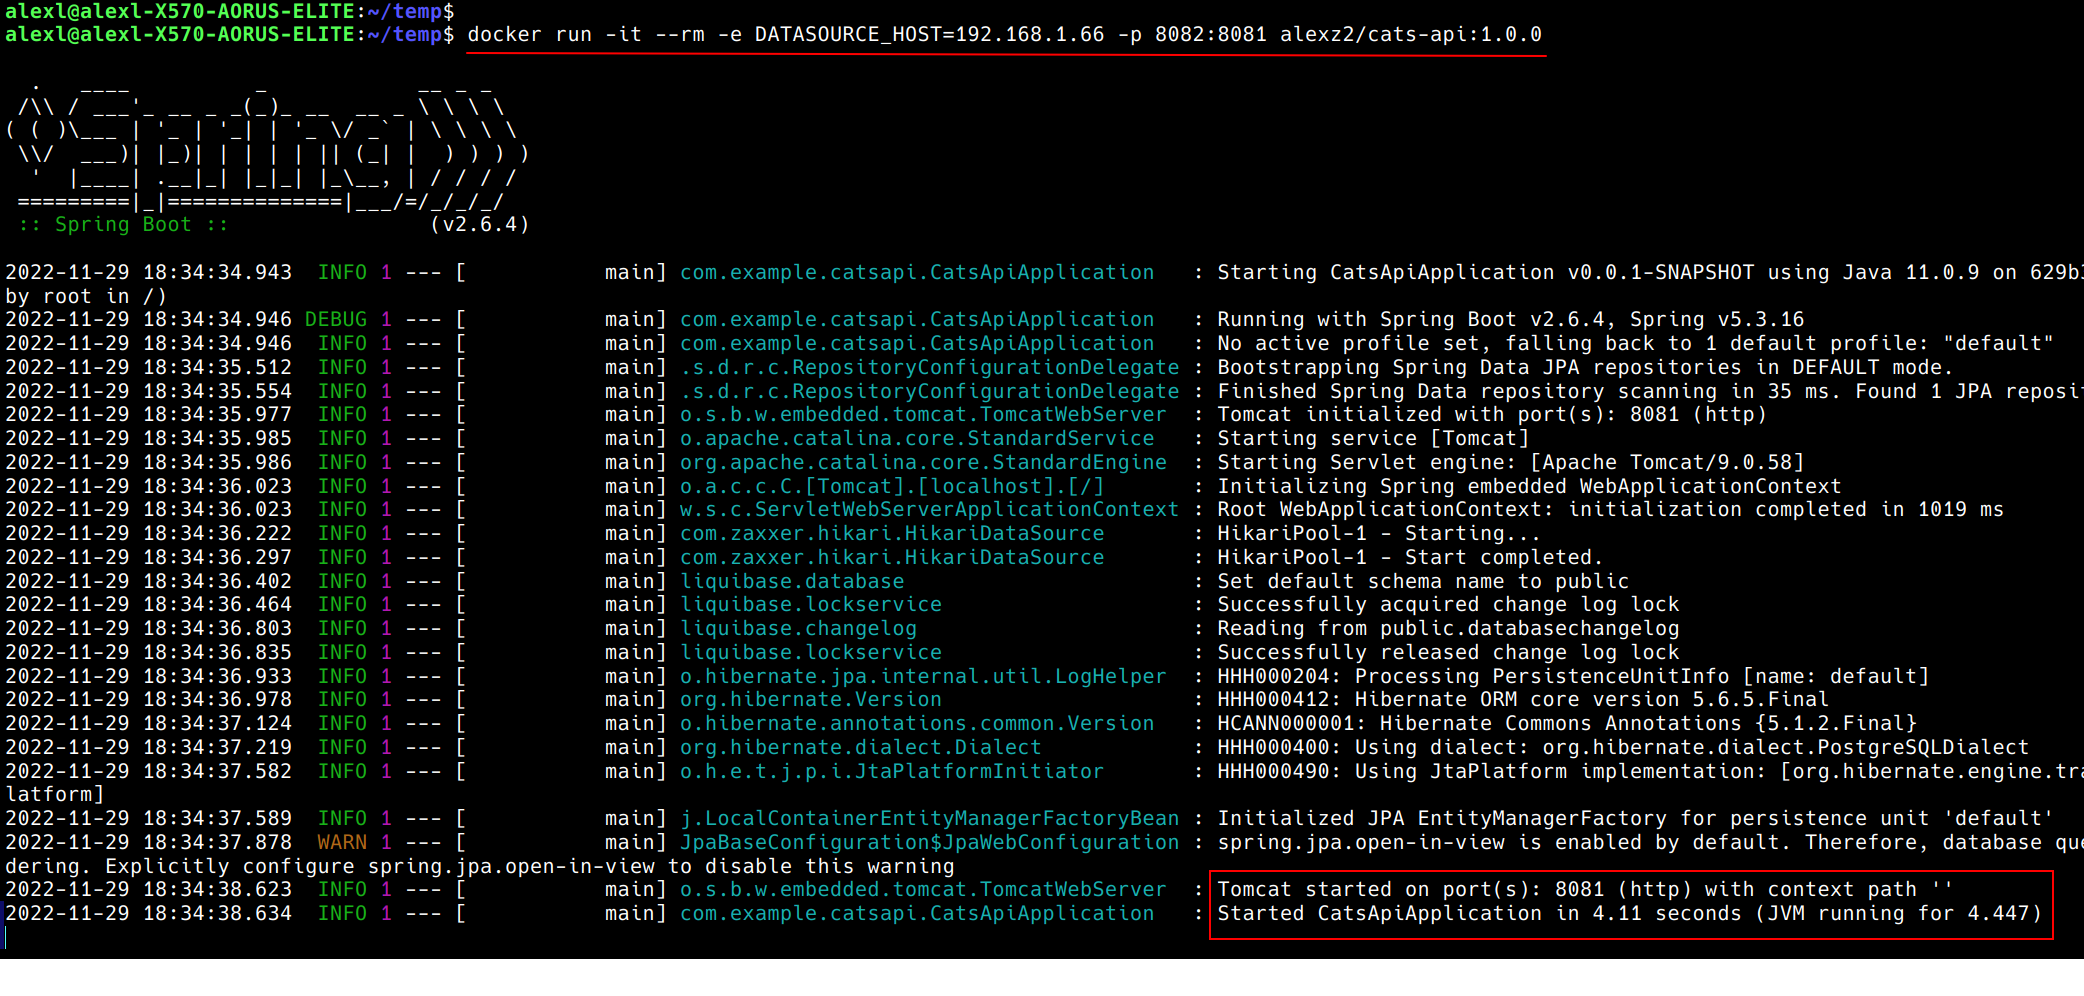
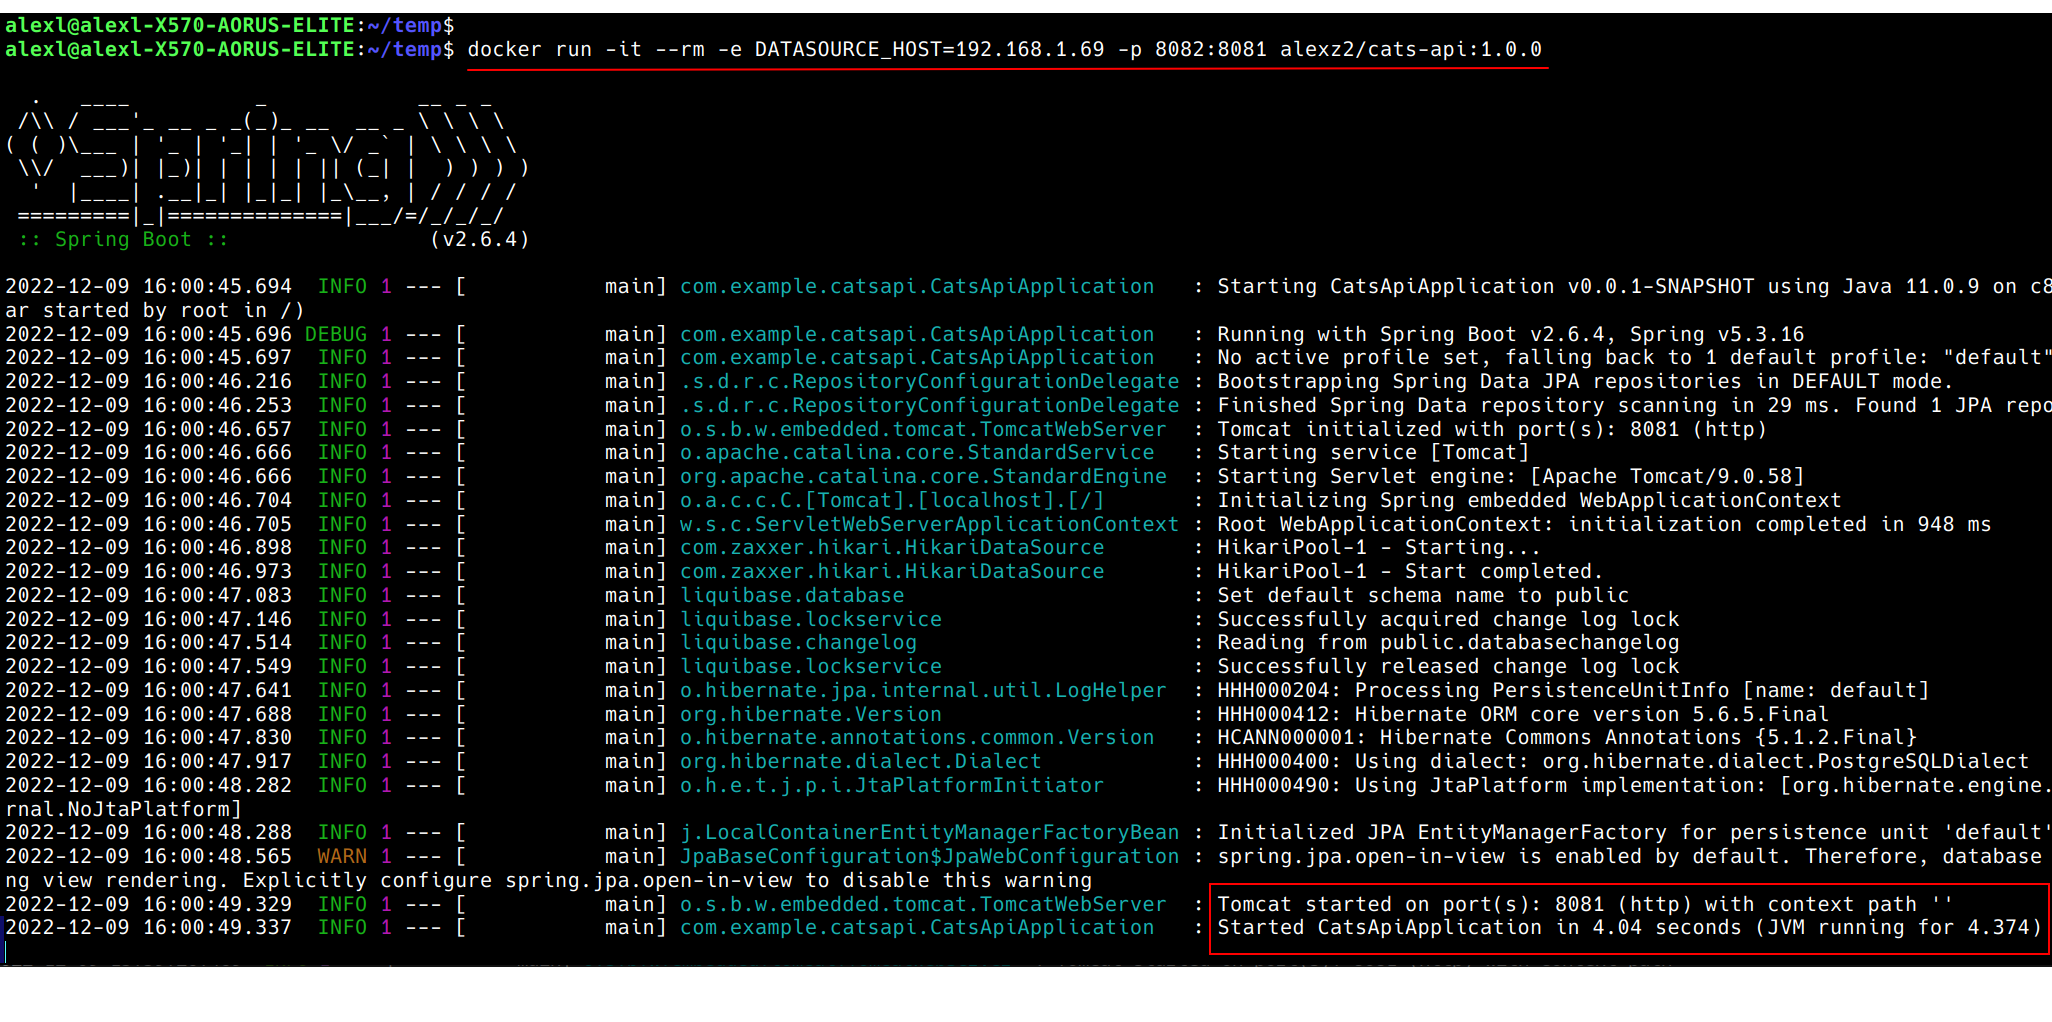
update 33

Changed region(s): [[0.2807, 0.249, 1.0, 0.8092], [0.0, 0.0934, 1.0, 0.9649], [0.0, 0.0, 1.0, 0.0934]]

diff --git a/README.md b/README.md
@@ -81,22 +81,23 @@
 - билдится образ;
 - полученный образ пушится на Docker Hub.
 
-6. В итоге видим свой образ:  
+В итоге видим свой образ:  
    ![](https://github.com/aleksey-nsk/cats-api/blob/master/screenshots/07_1_see_image.png)
 
 Если запустим ещё раз команду `./build_and_push.sh`, то сбилдится новый образ  
 и запушится на Docker Hub:  
 ![](https://github.com/aleksey-nsk/cats-api/blob/master/screenshots/07_2_build_again.png)
 
-7. Также видим, что образ загружен на Docker Hub:  
+Также видим, что образ загружен на Docker Hub:  
    ![](https://github.com/aleksey-nsk/cats-api/blob/master/screenshots/08_docker_hub.png)
 
-8. Теперь попробуем запустить из нашего образа контейнер с приложением. Пишем команду в консоли:  
+6. Теперь попробуем запустить из нашего образа контейнер с приложением. Пишем команду в консоли:  
    `docker run -it --rm alexz2/cats-api:1.0.0`
 
-- `docker run` - запустить контейнер из образа
-- `--rm` - если запустить контейнер с таким ключом, то он будет автоматически удалён сразу после остановки
-- `alexz2/cats-api:1.0.0` - образ
+- `docker run` - запустить контейнер из образа;
+- `--rm` - если запустить контейнер с таким ключом, то он будет автоматически удалён сразу же  
+  после остановки;
+- `alexz2/cats-api:1.0.0` - образ.
 
 Получаем ошибку:  
 _"org.postgresql.util.PSQLException: Connection to localhost:15431 refused. Check that the hostname and port are correct
@@ -111,9 +112,10 @@ and that the postmaster is accepting TCP/IP connections"_
     # СТАЛО:
     url: jdbc:postgresql://${DATASOURCE_HOST:localhost}:15431/cats
 
-когда мы работаем с Docker, то в большинстве случаев указываем конфигурации через **переменные окружения**. На Spring-е
-мы можем прописать **переменную окружения DATASOURCE_HOST** и тогда у нас подтянутся наши настройки. В итоге мы можем
-извне указать хост для БД. В реальной жизни мы также можем прокидывать логин/пароль, порт и название БД.
+Когда мы работаем с Docker, то в большинстве случаев указываем конфигурации через  
+**переменные окружения**. На Spring-е мы можем прописать **переменную окружения DATASOURCE_HOST**  
+и тогда у нас подтянутся наши настройки. В итоге мы можем извне указать хост для БД. В реальной жизни мы также можем
+прокидывать логин/пароль, порт и название БД.
 
 Далее удаляем образ командой  
 `docker image rm alexz2/cats-api:1.0.0`  
@@ -124,16 +126,17 @@ and that the postmaster is accepting TCP/IP connections"_
 ![](https://github.com/aleksey-nsk/cats-api/blob/master/screenshots/09_ip_host.png)
 
 Далее опять пробуем запустить из нашего образа контейнер с приложением. Немного модернизируем команду (добавляем **-e
-DATASOURCE_HOST=192.168.1.66**):  
-`docker run -it --rm -e DATASOURCE_HOST=192.168.1.66 alexz2/cats-api:1.0.0`  
+DATASOURCE_HOST=192.168.1.69**):  
+`docker run -it --rm -e DATASOURCE_HOST=192.168.1.69 alexz2/cats-api:1.0.0`  
 и видим что теперь всё запустилось без ошибок.
 
 Далее мы можем **прокинуть порт** на хост (**-p 8082:8081**):  
-`docker run -it --rm -e DATASOURCE_HOST=192.168.1.66 -p 8082:8081 alexz2/cats-api:1.0.0`  
+`docker run -it --rm -e DATASOURCE_HOST=192.168.1.69 -p 8082:8081 alexz2/cats-api:1.0.0`  
 ![](https://github.com/aleksey-nsk/cats-api/blob/master/screenshots/10_app_start_in_container.png)
 
 Теперь приложение доступно в браузере по адресу: http://localhost:8082/api/v1/cat  
-а документация - по адресу: http://localhost:8082/swagger-ui/index.html
+Текущий IP адресс: http://localhost:8082/api/v1/ip => **172.17.0.3**  
+Документация доступна по адресу: http://localhost:8082/swagger-ui/index.html
 
 # Как задеплоить микросервис в Kubernetes (используя kind)
 
